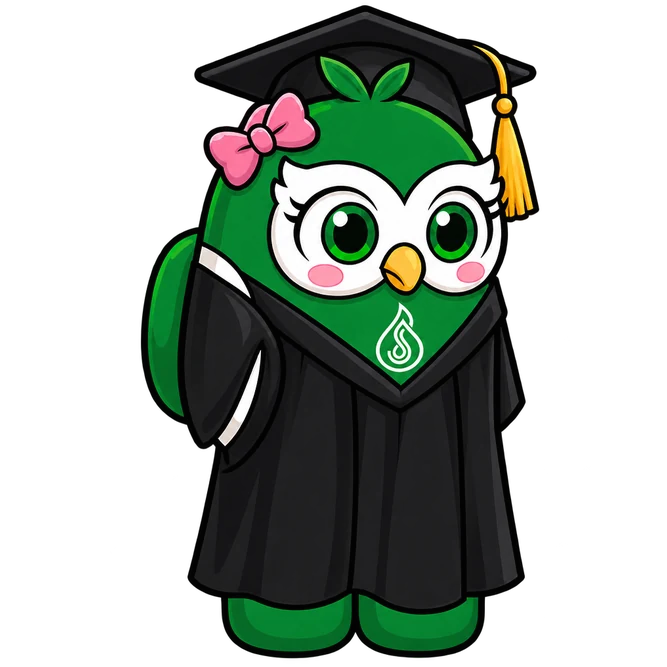
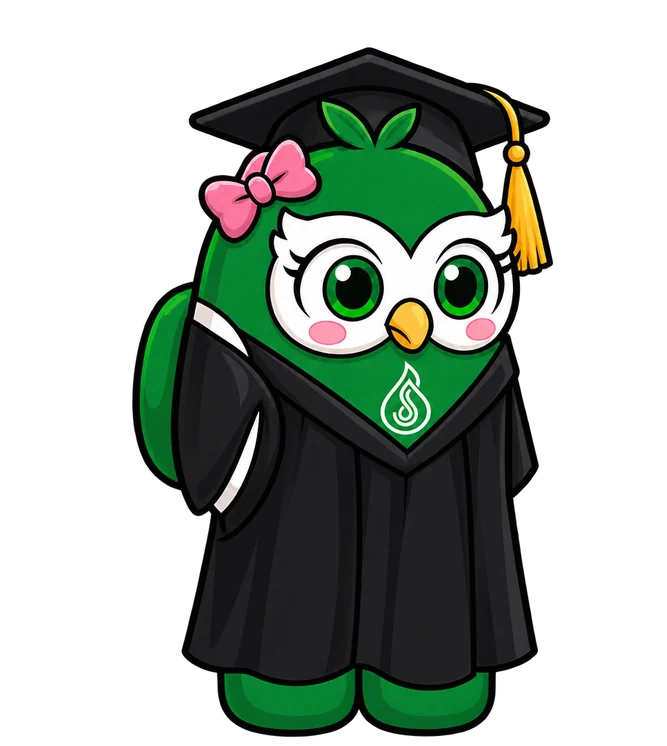
New characters, outfits for every character and picture accessories (Higgsfield)
- Fox, Robot and Dragon characters (2,000 / 2,500 / 3,000 PlayBits) in
  the owl art style.
- The 8 outfits now exist for all 7 characters (Pinky, BLAZE and the new
  ones included), fitted to each character's head size.
- Hat outfits no longer shrink the character: outfits can declare 'tall'
  in the character registry and are drawn taller than their box, bottom-
  aligned (game, shop, leaderboard, mini avatar).
- The 16 accessories get pictures instead of emoji (public/accessories),
  with the emoji as fallback.
public/characters/registry.json matches the registry to be written to
global_config.

Changed region(s): [[0.1799, 0.0, 0.8396, 0.9895]]

diff --git a/src/lib/avatar-items.ts b/src/lib/avatar-items.ts
@@ -16,6 +16,8 @@ export interface AccessoryItem {
   yFraction?: number;
   // horizontal pixel offset from center (positive = right)
   xOffset?: number;
+  // Higgsfield picture shown instead of the emoji (Nov 2026)
+  image?: string;
   // kept for any direct code references; outfit sprites are now managed via characterRegistry
   femaleSprite?: string;
 }
@@ -75,24 +77,24 @@ export const COLORS: ColorOption[] = [
 
 export const ACCESSORIES: AccessoryItem[] = [
   // ── Hats (sit on the head) ────────────────────────────────────────────────
-  { id: 'crown',      name: 'Crown',       emoji: '👑', price: 1000, category: 'hat'   },
-  { id: 'tophat',     name: 'Top Hat',     emoji: '🎩', price: 500,  category: 'hat'   },
-  { id: 'gradcap',    name: 'Grad Cap',    emoji: '🎓', price: 750,  category: 'hat'   },
-  { id: 'wizard',     name: 'Wizard Hat',  emoji: '🪄', price: 800,  category: 'hat'   },
-  { id: 'cap',        name: 'Sports Cap',  emoji: '🧢', price: 450,  category: 'hat'   },
+  { id: 'crown',      name: 'Crown',       emoji: '👑', price: 1000, category: 'hat', image: '/accessories/crown.webp'   },
+  { id: 'tophat',     name: 'Top Hat',     emoji: '🎩', price: 500,  category: 'hat', image: '/accessories/tophat.webp'   },
+  { id: 'gradcap',    name: 'Grad Cap',    emoji: '🎓', price: 750,  category: 'hat', image: '/accessories/gradcap.webp'   },
+  { id: 'wizard',     name: 'Wizard Hat',  emoji: '🪄', price: 800,  category: 'hat', image: '/accessories/wizard.webp'   },
+  { id: 'cap',        name: 'Sports Cap',  emoji: '🧢', price: 450,  category: 'hat', image: '/accessories/cap.webp'   },
   // ── Extras (face / effect level) ─────────────────────────────────────────
-  { id: 'sunglasses', name: 'Sunglasses',  emoji: '🕶', price: 600,  category: 'extra'                       },
-  { id: 'halo',       name: 'Halo',        emoji: '😇', price: 850,  category: 'extra', yFraction: -0.08     },
-  { id: 'star',       name: 'Star Aura',   emoji: '⭐', price: 300,  category: 'extra', yFraction: -0.10     },
-  { id: 'lightning',  name: 'Lightning',   emoji: '⚡', price: 400,  category: 'extra', yFraction: -0.06     },
-  { id: 'bow',        name: 'Bow',         emoji: '🎀', price: 350,  category: 'extra', yFraction:  0.36     },
+  { id: 'sunglasses', name: 'Sunglasses',  emoji: '🕶', price: 600,  category: 'extra', image: '/accessories/sunglasses.webp'                       },
+  { id: 'halo',       name: 'Halo',        emoji: '😇', price: 850,  category: 'extra', image: '/accessories/halo.webp', yFraction: -0.08     },
+  { id: 'star',       name: 'Star Aura',   emoji: '⭐', price: 300,  category: 'extra', image: '/accessories/star.webp', yFraction: -0.10     },
+  { id: 'lightning',  name: 'Lightning',   emoji: '⚡', price: 400,  category: 'extra', image: '/accessories/lightning.webp', yFraction: -0.06     },
+  { id: 'bow',        name: 'Bow',         emoji: '🎀', price: 350,  category: 'extra', image: '/accessories/bow.webp', yFraction:  0.36     },
   // ── Clothing (chest / body level) ────────────────────────────────────────
-  { id: 'scarf',      name: 'Scarf',       emoji: '🧣', price: 400,  category: 'clothing', yFraction: 0.36 },
-  { id: 'tie',        name: 'Neck Tie',    emoji: '👔', price: 350,  category: 'clothing', yFraction: 0.38 },
-  { id: 'medal',      name: 'Medal',       emoji: '🏅', price: 600,  category: 'clothing', yFraction: 0.48 },
-  { id: 'badge',      name: 'Star Badge',  emoji: '🏆', price: 500,  category: 'clothing', yFraction: 0.44 },
-  { id: 'backpack',   name: 'Backpack',    emoji: '🎒', price: 700,  category: 'clothing', yFraction: 0.40, xOffset: 14 },
-  { id: 'heart',      name: 'Heart Pin',   emoji: '❤', price: 250,  category: 'clothing', yFraction: 0.50 },
+  { id: 'scarf',      name: 'Scarf',       emoji: '🧣', price: 400,  category: 'clothing', image: '/accessories/scarf.webp', yFraction: 0.36 },
+  { id: 'tie',        name: 'Neck Tie',    emoji: '👔', price: 350,  category: 'clothing', image: '/accessories/tie.webp', yFraction: 0.38 },
+  { id: 'medal',      name: 'Medal',       emoji: '🏅', price: 600,  category: 'clothing', image: '/accessories/medal.webp', yFraction: 0.48 },
+  { id: 'badge',      name: 'Star Badge',  emoji: '🏆', price: 500,  category: 'clothing', image: '/accessories/badge.webp', yFraction: 0.44 },
+  { id: 'backpack',   name: 'Backpack',    emoji: '🎒', price: 700,  category: 'clothing', image: '/accessories/backpack.webp', yFraction: 0.40, xOffset: 14 },
+  { id: 'heart',      name: 'Heart Pin',   emoji: '❤', price: 250,  category: 'clothing', image: '/accessories/heart.webp', yFraction: 0.50 },
   // Outfit (clothing) items with character-specific sprites are now in
   // public/characters/registry.json — managed via /admin/characters
 ];

diff --git a/src/components/shop/Shop.tsx b/src/components/shop/Shop.tsx
@@ -7,18 +7,20 @@ import { motion } from 'framer-motion';
 import { useWalletStore } from '@/store/useWalletStore';
 import { buyItem } from '@/lib/coinsClient';
 import { COLORS, ACCESSORIES, AccessoryItem, itemTopFraction, resolveAccessory } from '@/lib/avatar-items';
-import { useCharacterRegistry, resolveOutfitStand, type RegistryOutfit } from '@/lib/characterRegistry';
+import { useCharacterRegistry, resolveOutfitStand, tallStyle, type RegistryOutfit } from '@/lib/characterRegistry';
 import { useAccessoryPositions } from '@/hooks/useAccessoryPositions';
+import { AccessoryIcon } from '@/components/AccessoryIcon';
 
 type Tab = 'colors' | 'accessories' | 'clothing' | 'characters';
 
 const CHAR_H = 100;
 
-function CharPreview({ colorFilter, baseSrc, item, outfitSprite }: {
+function CharPreview({ colorFilter, baseSrc, item, outfitSprite, outfit }: {
   colorFilter:   string;
   baseSrc:       string;
   item?:         AccessoryItem | null;
   outfitSprite?: string | null;
+  outfit?:       RegistryOutfit | null;
 }) {
   const spriteSrc = outfitSprite ?? baseSrc;
   const topPx = item ? itemTopFraction(item) * CHAR_H : 0;
@@ -28,12 +30,13 @@ function CharPreview({ colorFilter, baseSrc, item, outfitSprite }: {
       {/* eslint-disable-next-line @next/next/no-img-element */}
       <img src={spriteSrc} alt="Character preview" draggable={false}
         style={{ width: CHAR_H, height: CHAR_H, objectFit: 'contain',
-                 filter: colorFilter, transition: 'filter 0.25s ease' }} />
+                 filter: colorFilter, transition: 'filter 0.25s ease',
+                 ...(outfitSprite ? tallStyle(CHAR_H, outfit) : {}) }} />
       {item && !outfitSprite && (
         <span className="absolute pointer-events-none select-none"
           style={{ top: topPx, left: `calc(50% + ${item.xOffset ?? 0}px)`,
                    transform: 'translateX(-50%)', fontSize: fs, lineHeight: 1 }}>
-          {item.emoji}
+          <AccessoryIcon item={item} size={fs} />
         </span>
       )}
     </div>
@@ -117,7 +120,7 @@ export function Shop({ onClose, pageMode, onPrizes }: { onClose: () => void; pag
       <div onMouseEnter={() => setPreviewAcc(acc.id)} onMouseLeave={() => setPreviewAcc(null)}
         className={`flex items-center gap-3 rounded-2xl p-3 transition-colors
           ${equipped ? 'bg-violet-50 ring-2 ring-violet-400' : 'bg-slate-50'}`}>
-        <span className="text-3xl leading-none">{acc.emoji}</span>
+        <span className="text-3xl leading-none"><AccessoryIcon item={acc} size={30} /></span>
         <div className="flex-1 min-w-0">
           <div className="font-black text-sm text-slate-800 truncate">{acc.name}</div>
           {owned ? (
@@ -210,6 +213,7 @@ export function Shop({ onClose, pageMode, onPrizes }: { onClose: () => void; pag
                     baseSrc={tab === 'characters' ? previewCharBaseSrc : (charDef?.standFrame ?? '/character/walk2.png')}
                     item={tab === 'characters' ? undefined : previewAccItem}
                     outfitSprite={tab === 'characters' ? null : previewSprite}
+                    outfit={previewOutfit}
                   />
                 </div>
                 <div className="text-center text-xs text-slate-400 font-semibold">Preview</div>
@@ -244,6 +248,7 @@ export function Shop({ onClose, pageMode, onPrizes }: { onClose: () => void; pag
                       baseSrc={tab === 'characters' ? previewCharBaseSrc : (charDef?.standFrame ?? '/character/walk2.png')}
                       item={tab === 'characters' ? undefined : previewAccItem}
                       outfitSprite={tab === 'characters' ? null : previewSprite}
+                    outfit={previewOutfit}
                     />
                   </div>
                 </div>
@@ -517,7 +522,7 @@ export function Shop({ onClose, pageMode, onPrizes }: { onClose: () => void; pag
                         <div key={acc.id} className={`bg-white rounded-2xl p-4 shadow-sm border-2 transition-all ${
                           equipped ? 'border-violet-400' : 'border-slate-100'
                         }`}>
-                          <div className="text-4xl text-center mb-2">{acc.emoji}</div>
+                          <div className="text-4xl text-center mb-2"><AccessoryIcon item={acc} size={36} /></div>
                           <div className="font-black text-slate-800 text-center text-sm mb-2">{acc.name}</div>
                           <button onClick={() => equipAccessory(equipped ? null : acc.id)}
                             className={`w-full py-2 rounded-xl font-black text-sm transition-colors ${
@@ -561,6 +566,7 @@ export function Shop({ onClose, pageMode, onPrizes }: { onClose: () => void; pag
           baseSrc={tab === 'characters' ? previewCharBaseSrc : (charDef?.standFrame ?? '/character/walk2.png')}
           item={tab === 'characters' ? undefined : previewAccItem}
           outfitSprite={tab === 'characters' ? null : previewSprite}
+                    outfit={previewOutfit}
         />
       </div>
 

diff --git a/src/components/game/OwlCharacter.tsx b/src/components/game/OwlCharacter.tsx
@@ -3,8 +3,9 @@
 import { useState, useEffect } from 'react';
 import { motion, AnimatePresence } from 'framer-motion';
 import { useGameStore }           from '@/store/useGameStore';
-import { useCharacterRegistry, resolveOutfitStand } from '@/lib/characterRegistry';
+import { useCharacterRegistry, resolveOutfitStand, tallStyle } from '@/lib/characterRegistry';
 import { COLORS, ACCESSORIES, itemTopFraction } from '@/lib/avatar-items';
+import { AccessoryIcon } from '@/components/AccessoryIcon';
 
 export type OwlMood = 'idle' | 'correct' | 'wrong' | 'thinking' | 'celebrate';
 
@@ -60,7 +61,7 @@ function ItemOverlays({ size, outfitActive }: { size: number; outfitActive: bool
           style={{ top: itemTopFraction(acc) * size,
                    left: `calc(50% + ${acc.xOffset ?? 0}px)`,
                    transform: 'translateX(-50%)', fontSize: fs, lineHeight: 1 }}>
-          {acc.emoji}
+          <AccessoryIcon item={acc} size={fs} />
         </span>
       )}
       {cloth && (
@@ -68,7 +69,7 @@ function ItemOverlays({ size, outfitActive }: { size: number; outfitActive: bool
           style={{ top: (cloth.yFraction ?? 0.44) * size,
                    left: `calc(50% + ${cloth.xOffset ?? 0}px)`,
                    transform: 'translateX(-50%)', fontSize: fs, lineHeight: 1 }}>
-          {cloth.emoji}
+          <AccessoryIcon item={{ id: cloth.id, emoji: cloth.emoji, name: cloth.name }} size={fs} />
         </span>
       )}
     </>
@@ -88,9 +89,8 @@ export function OwlMini({ size = 60, colorIdOverride }: {
   const color      = COLORS.find(c => c.id === effectiveColorId);
 
   // Outfit sprite — skip in picker mode (colorIdOverride set)
-  const outfitSprite = colorIdOverride
-    ? null
-    : (() => { const o = registry.outfit(equippedClothingId ?? ''); return o ? resolveOutfitStand(o, characterId) : null; })();
+  const miniOutfit = colorIdOverride ? null : registry.outfit(equippedClothingId ?? '');
+  const outfitSprite = miniOutfit ? resolveOutfitStand(miniOutfit, characterId) : null;
 
   const spriteSrc = outfitSprite ?? charDef?.standFrame ?? '/character/walk2.png';
 
@@ -98,7 +98,8 @@ export function OwlMini({ size = 60, colorIdOverride }: {
     <div className="relative inline-block select-none" style={{ width: size, height: size }}>
       {/* eslint-disable-next-line @next/next/no-img-element */}
       <img src={spriteSrc} alt="character" draggable={false}
-        style={{ width: size, height: size, objectFit: 'contain', filter: color?.filter ?? '' }}
+        style={{ width: size, height: size, objectFit: 'contain', filter: color?.filter ?? '',
+                 ...(outfitSprite ? tallStyle(size, miniOutfit) : {}) }}
       />
 
       {!colorIdOverride && <ItemOverlays size={size} outfitActive={!!outfitSprite} />}
@@ -114,7 +115,7 @@ export function OwlCharacter({ mood }: { mood: OwlMood }) {
   const registry     = useCharacterRegistry();
   const charDef      = registry.character(characterId) ?? registry.characters[0];
   const color        = COLORS.find(c => c.id === colorId);
-  const { outfitSprite } = useResolvedCharacter();
+  const { outfitSprite, registryOutfit } = useResolvedCharacter();
 
   const [frame, setFrame] = useState(1);
 
@@ -150,7 +151,8 @@ export function OwlCharacter({ mood }: { mood: OwlMood }) {
       >
         {/* eslint-disable-next-line @next/next/no-img-element */}
         <img src={spriteSrc} alt="character" draggable={false}
-          style={{ width: 100, height: 100, objectFit: 'contain', filter: combinedFilter }}
+          style={{ width: 100, height: 100, objectFit: 'contain', filter: combinedFilter,
+                   ...(outfitSprite ? tallStyle(100, registryOutfit) : {}) }}
         />
         <ItemOverlays size={100} outfitActive={!!outfitSprite} />
 

diff --git a/src/components/hub/Leaderboard.tsx b/src/components/hub/Leaderboard.tsx
@@ -4,10 +4,11 @@ import { motion, AnimatePresence } from "framer-motion";
 import { supabase } from "@/lib/supabase";
 import { ALL_GAME_IDS } from "@/lib/learningScore";
 import { useGameStore } from "@/store/useGameStore";
-import { useCharacterRegistry, resolveOutfitStand } from "@/lib/characterRegistry";
+import { useCharacterRegistry, resolveOutfitStand, tallStyle } from "@/lib/characterRegistry";
 import { COLORS, resolveAccessory, itemTopFraction } from "@/lib/avatar-items";
 import { useAccessoryPositions } from "@/hooks/useAccessoryPositions";
 import type { ChessScoreRow } from "@/lib/chess-scores";
+import { AccessoryIcon } from "@/components/AccessoryIcon";
 
 // ── Types ─────────────────────────────────────────────────────────────────────
 
@@ -101,6 +102,7 @@ function TinyAvatar({ characterId = 'male', colorId = 'green', equippedClothingI
           position: 'absolute', bottom: 0, left: 0,
           width: TINY_H, height: TINY_H,
           objectFit: 'contain', filter: color?.filter ?? '',
+          ...(outfitSrc ? tallStyle(TINY_H, outfitDef) : {}),
         }}
       />
       {accItem && (
@@ -115,7 +117,7 @@ function TinyAvatar({ characterId = 'male', colorId = 'green', equippedClothingI
           pointerEvents: 'none',
           zIndex: 3,
         }}>
-          {accItem.emoji}
+          <AccessoryIcon item={accItem} size={Math.round(TINY_H * 0.3)} />
         </div>
       )}
     </div>

diff --git a/src/lib/characterRegistry.ts b/src/lib/characterRegistry.ts
@@ -22,6 +22,10 @@ export interface RegistryOutfit {
   characterId?: string; // set on character-type items — equipping transforms into this character
   yFraction?:  number;
   xOffset?:    number;
+  /** Sprite height ÷ box height for outfits with a tall hat. The sprite is drawn this
+   *  much taller than the box, bottom-aligned, so the character keeps its full size and
+   *  the hat rises above the box. Missing = 1. */
+  tall?:       number;
   /**
    * characterId → sprite(s).
    * - string   = single image used for all walk frames (character looks static while moving)
@@ -29,6 +33,13 @@ export interface RegistryOutfit {
    * Missing key = emoji overlay fallback.
    */
   sprites:    Record<string, string | string[]>;
+}
+
+/** Extra <img> style for a tall outfit sprite inside a `size`×`size` relative box. */
+export function tallStyle(size: number, outfit?: RegistryOutfit | null): Record<string, string | number> {
+  const t = outfit?.tall ?? 1;
+  if (!(t > 1)) return {};
+  return { position: 'absolute', left: 0, bottom: 0, height: size * t, objectPosition: 'bottom' };
 }
 
 /** Returns the stand/preview frame (index 1, or index 0 fallback) as a plain string. */

diff --git a/src/components/AccessoryIcon.tsx b/src/components/AccessoryIcon.tsx
@@ -1,0 +1,17 @@
+"use client";
+import { useState } from 'react';
+import type { AccessoryItem } from '@/lib/avatar-items';
+
+// A shop accessory: its Higgsfield picture (public/accessories/<id>.webp) when there
+// is one, otherwise the emoji. `size` is the emoji font size in px; the picture gets
+// a matching box.
+export function AccessoryIcon({ item, size }: { item: Pick<AccessoryItem, 'id' | 'emoji' | 'name' | 'image'>; size: number }) {
+  const [failed, setFailed] = useState(false);
+  if (!item.image || failed) return <>{item.emoji}</>;
+  const px = Math.round(size * 1.15);
+  return (
+    // eslint-disable-next-line @next/next/no-img-element
+    <img src={item.image} alt={item.name} draggable={false} onError={() => setFailed(true)}
+      style={{ width: px, height: px, objectFit: 'contain', display: 'inline-block', verticalAlign: 'middle' }} />
+  );
+}
